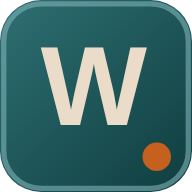
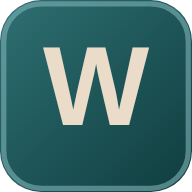
sync: weroad@bf119be — 위로드 1.26.4: 마크의 주황 점 제거
Claude-Session: https://claude.ai/code/session_01UCgDwQbK7tMAPoNW6ByMmv

diff --git a/driver/index.html b/driver/index.html
@@ -16,7 +16,7 @@
   html,body{margin:0;height:100%;background:#0F1A33;color:#EAF0FF;font-family:-apple-system,BlinkMacSystemFont,"Apple SD Gothic Neo","Malgun Gothic","Noto Sans KR",sans-serif}
   body{display:flex;flex-direction:column;min-height:100%;padding:max(16px,env(safe-area-inset-top)) 18px max(20px,env(safe-area-inset-bottom))}
   .brand{display:flex;align-items:center;gap:10px;margin-bottom:18px}
-  .brand .lg{position:relative;width:34px;height:34px;border-radius:10px;background:linear-gradient(140deg,#2E6F73,#0F3D3E);box-shadow:inset 0 0 0 1.5px rgba(127,179,184,.75);display:grid;place-items:center;font-weight:900;font-size:18px;color:#EADCC8}.brand .lg::after{content:"";position:absolute;right:3px;bottom:3px;width:6px;height:6px;border-radius:50%;background:#C6601F}
+  .brand .lg{position:relative;width:34px;height:34px;border-radius:10px;background:linear-gradient(140deg,#2E6F73,#0F3D3E);box-shadow:inset 0 0 0 1.5px rgba(127,179,184,.75);display:grid;place-items:center;font-weight:900;font-size:18px;color:#EADCC8}
   .brand b{font-size:17px}.brand small{opacity:.6;margin-left:4px}
   .card{background:rgba(255,255,255,.07);border:1px solid rgba(255,255,255,.1);border-radius:20px;padding:18px;margin-bottom:14px}
   .name{font-size:26px;font-weight:800;letter-spacing:-.02em}
